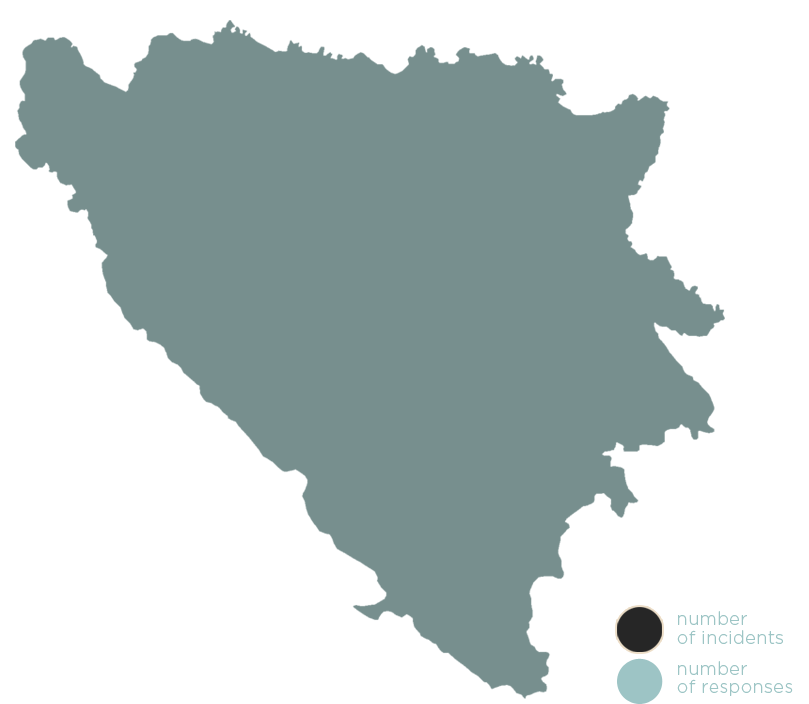
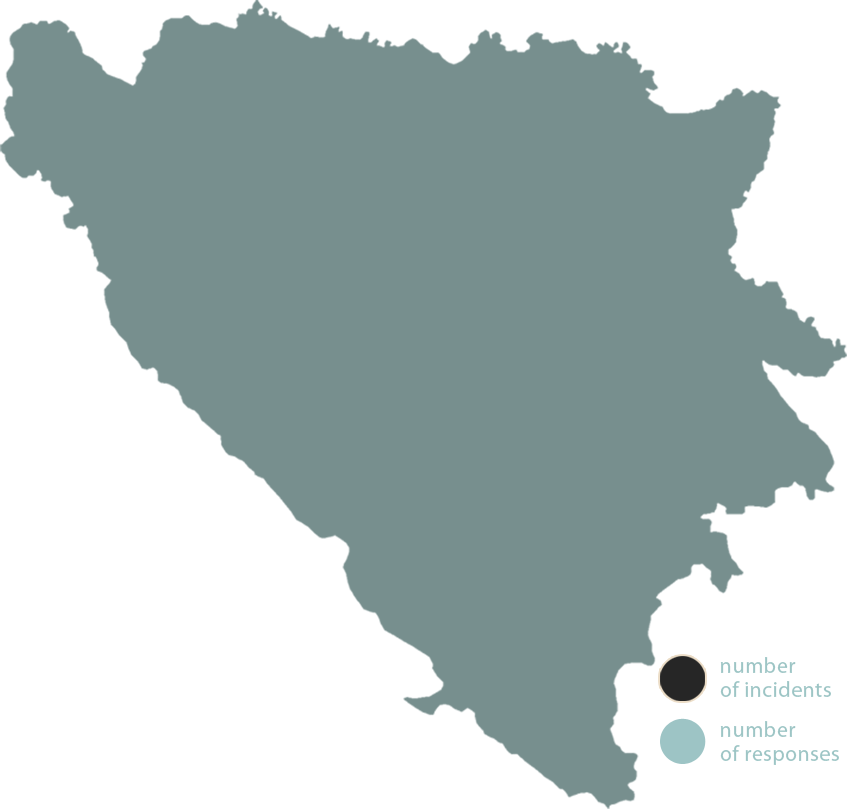
map change

diff --git a/public/stylesheets/main_bs.css b/public/stylesheets/main_bs.css
@@ -330,12 +330,12 @@ ul#incidents li .description, ul#responses li .description{
 }
 .map_wrapper .map{
 	float: left;
-	width: 1054px;
+	width: 1523px;
 	height: 100px;
 }
 .map_wrapper .highlits{
 	float: left;
-	margin-left: 120px;
+	margin-left: 70px;
 }
 .highlight_box_wrapper{
 	float: left;
@@ -350,7 +350,6 @@ ul#incidents li .description, ul#responses li .description{
 	width: 440px;
 	background-color: #9dc4c5;
 	float: left;
-	margin-left: 452px;
 	height: 740px;
 }
 .highlight_box .title{
@@ -399,8 +398,8 @@ ul#incidents li .description, ul#responses li .description{
 .map_wrapper .map{
 	padding-left: 43px;
 	margin-top:43px;
-	background: url('/images/bih_map_bs.png') no-repeat 300px 60px;
-	min-height: 810px;
+	background: url('/images/bih_map_bs.png') no-repeat 722px -13px;
+	min-height: 816px;
 }
 .map_wrapper .map.hide_map{
 	background: none;

diff --git a/public/stylesheets/main.css b/public/stylesheets/main.css
@@ -327,12 +327,12 @@ ul#incidents li .description, ul#responses li .description{
 }
 .map_wrapper .map{
 	float: left;
-	width: 1049px;
+	width: 1523px;
 	height: 100px;
 }
 .map_wrapper .highlits{
 	float: left;
-	margin-left: 120px;
+	margin-left: 70px;
 }
 .highlight_box_wrapper{
 	float: left;
@@ -347,7 +347,6 @@ ul#incidents li .description, ul#responses li .description{
 	width: 440px;
 	background-color: #9dc4c5;
 	float: left;
-	margin-left: 452px;
 	height: 740px;
 }
 .highlight_box .title{
@@ -396,8 +395,8 @@ ul#incidents li .description, ul#responses li .description{
 .map_wrapper .map{
 	padding-left: 43px;
 	margin-top:43px;
-	background: url('/images/bih_map.png') no-repeat 300px 60px;
-	min-height: 810px;
+	background: url('/images/bih_map.png') no-repeat 722px -13px;
+	min-height: 816px;
 }
 .map_wrapper .map.hide_map{
 	background: none;

diff --git a/app/controllers/parser_controller.rb b/app/controllers/parser_controller.rb
@@ -30,10 +30,10 @@ class ParserController < ApplicationController
 		@incidents = parsed_string[:incidents]
 		@responses = parsed_string[:responses]
 
-		if I18n.locale == :en
+		if I18n.locale == :en || I18n.locale == "en"
 		@highlighted = parsed_string[:responses][:r_highlighted_action_en]
 		end
-		if I18n.locale == :bs
+		if I18n.locale == :bs || I18n.locale == "bs"
 		@highlighted = parsed_string[:responses][:r_highlighted_action_bs]
 		end
 
